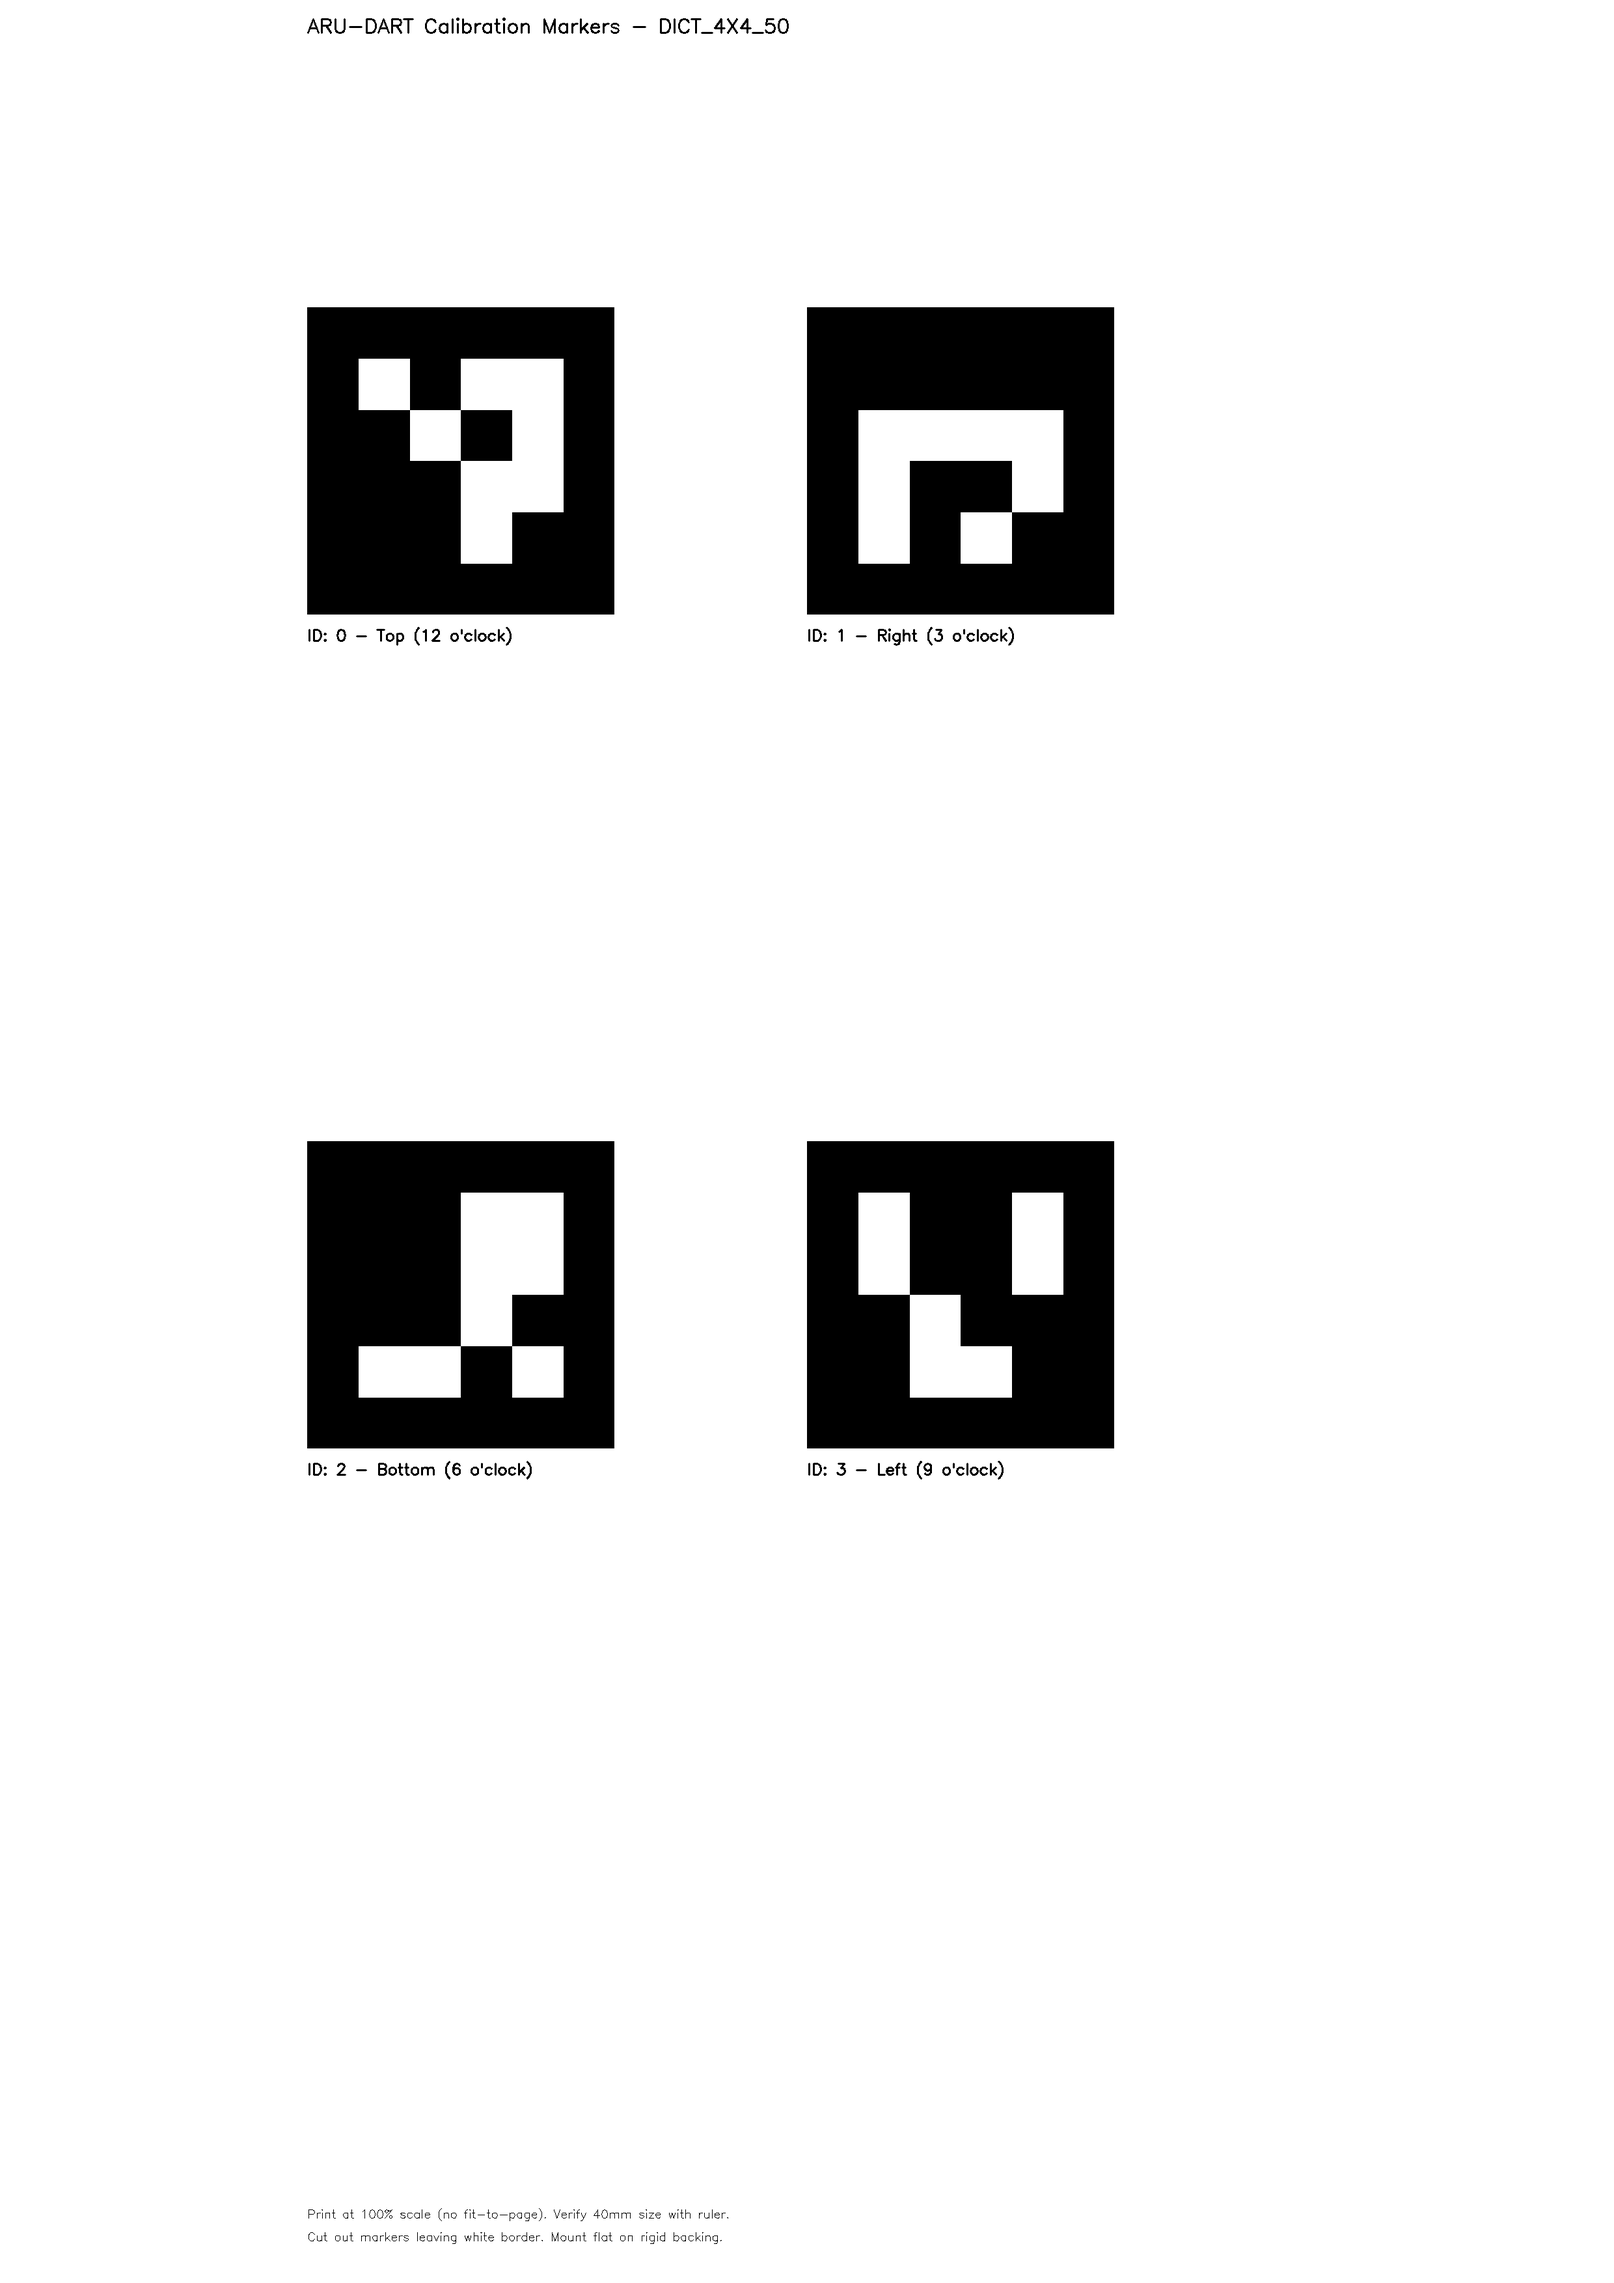
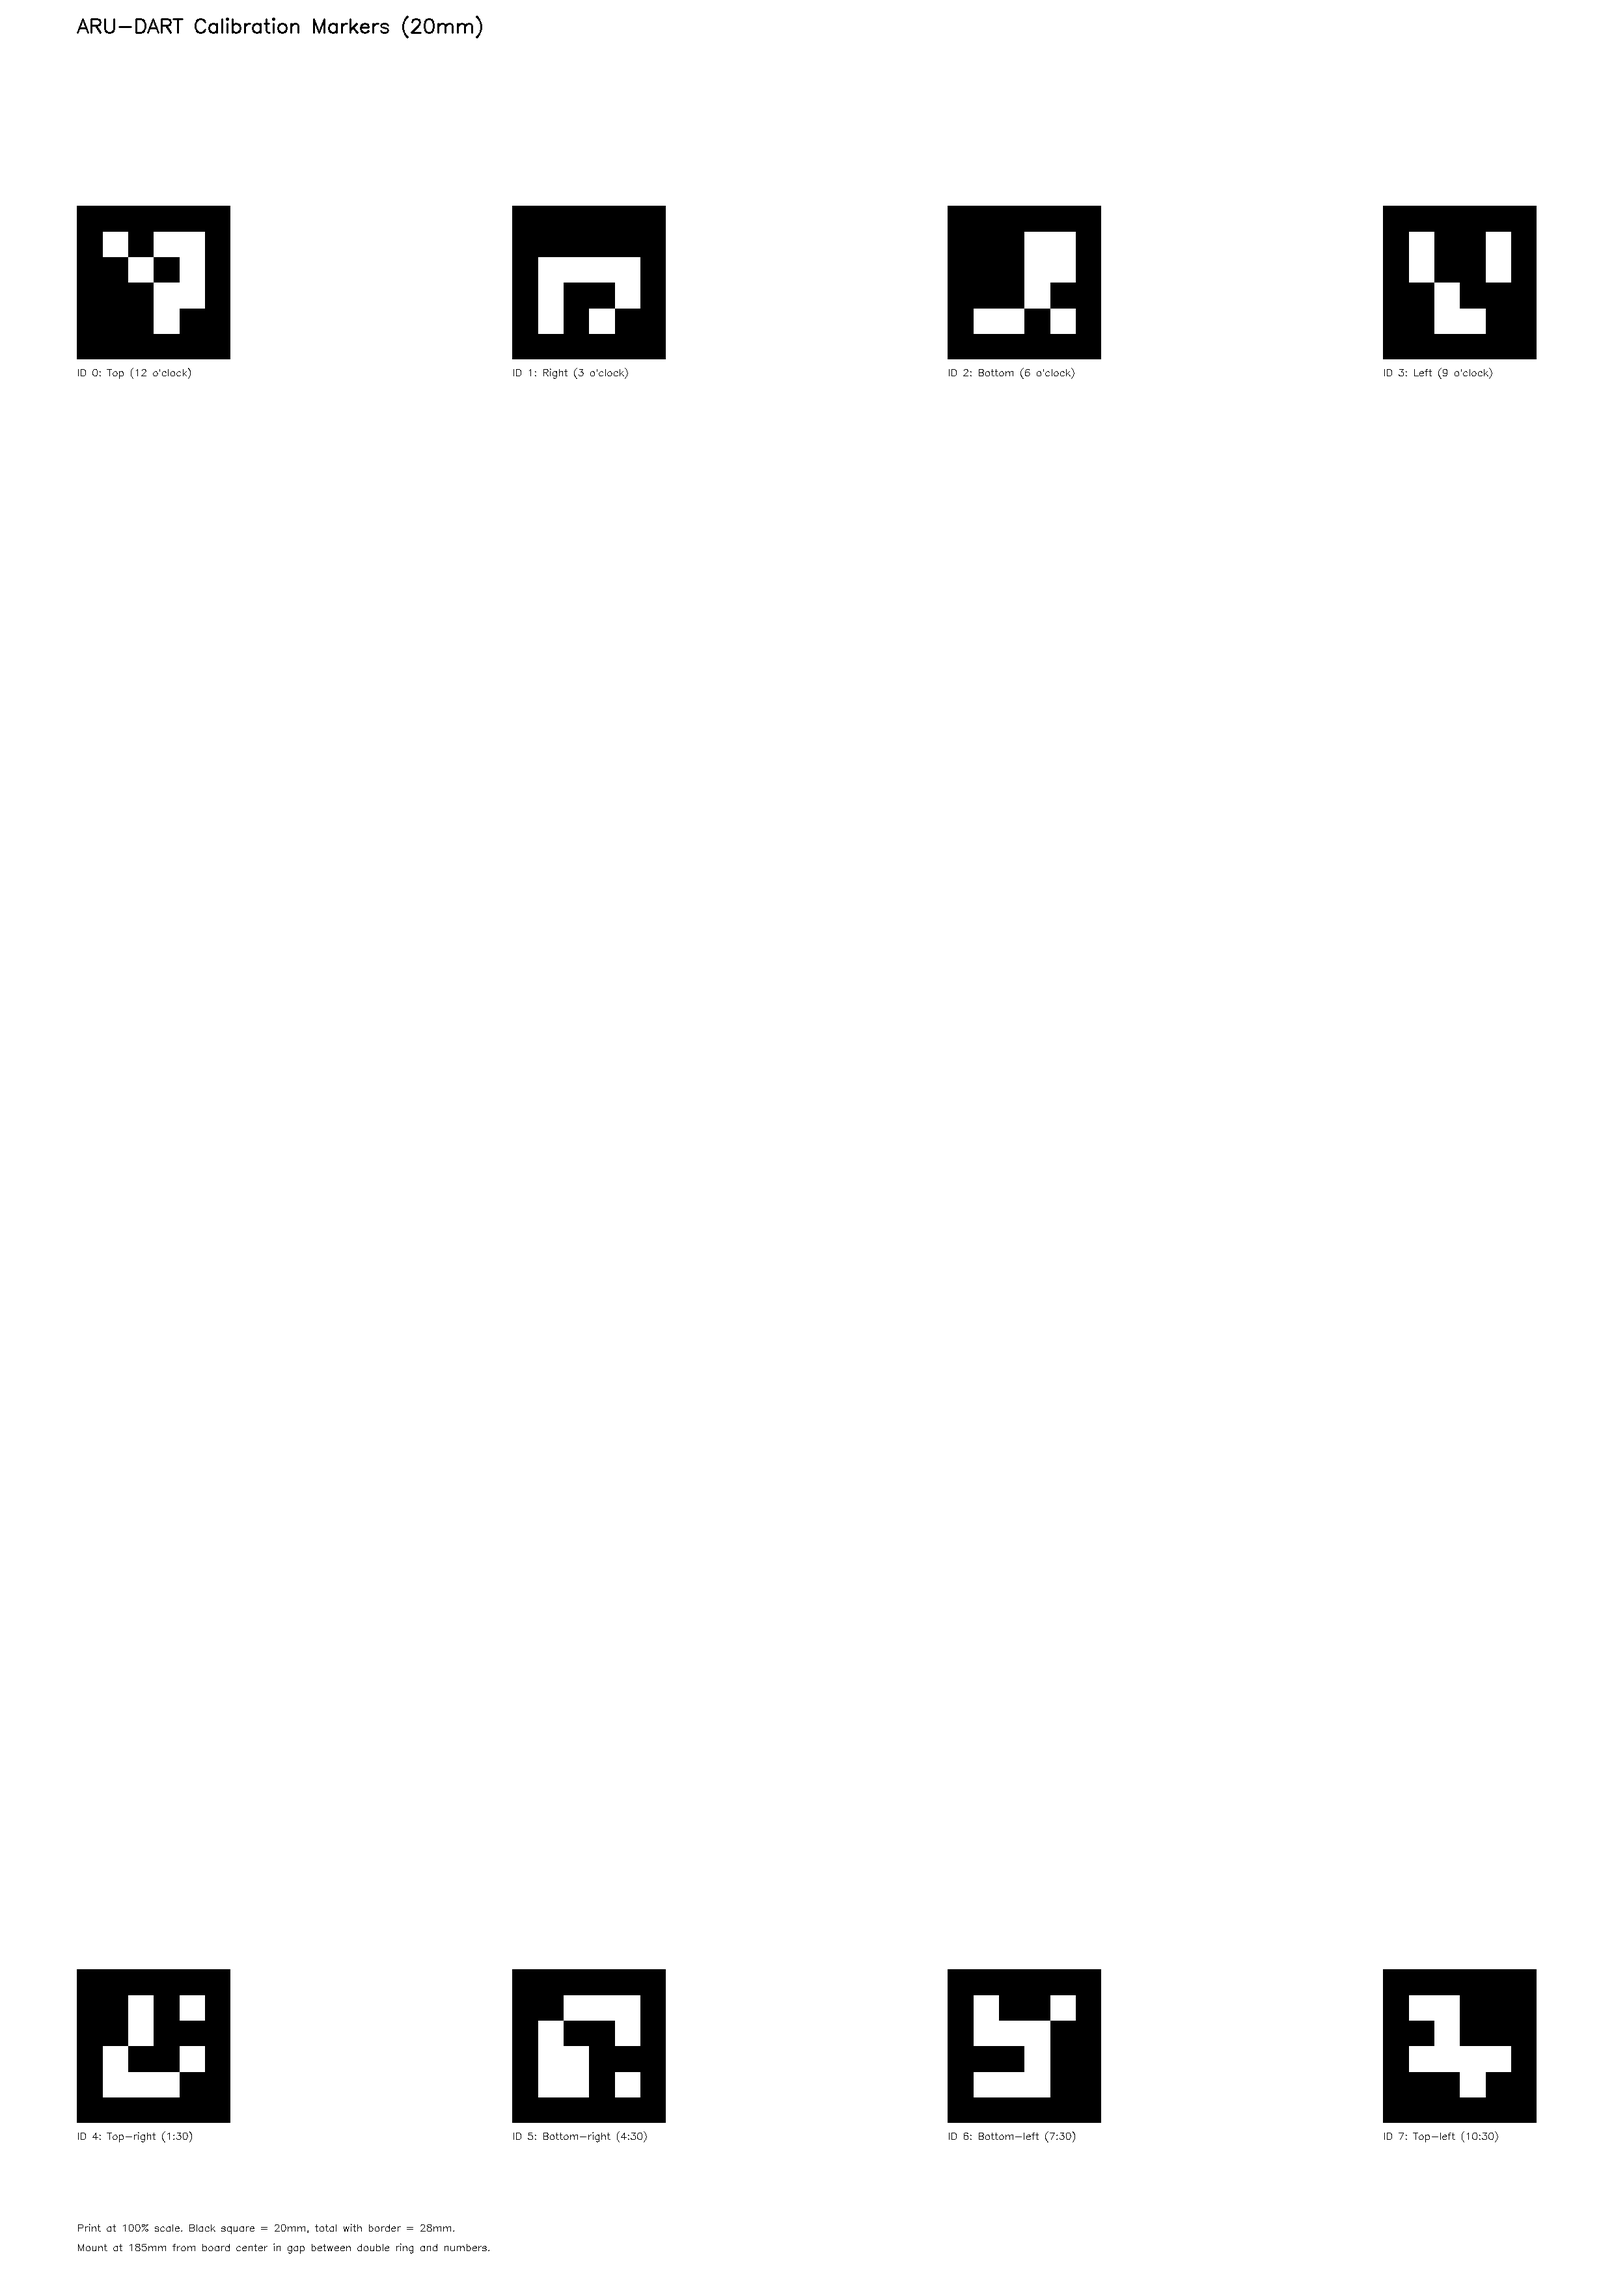
generate ARUCO markers

diff --git a/calibration/generate_aruco_markers.py b/calibration/generate_aruco_markers.py
@@ -27,7 +27,7 @@ from pathlib import Path
 
 def generate_aruco_markers(
     output_dir: str = "calibration/markers",
-    marker_size_mm: int = 40,
+    marker_size_mm: int = 20,
     dpi: int = 300
 ) -> None:
     """
@@ -55,8 +55,8 @@ def generate_aruco_markers(
     print(f"  Marker size: {marker_size_mm}mm ({marker_size_px}px at {dpi} DPI)")
     print()
     
-    # Generate markers 0-5 (we'll use 4, but generate extras for redundancy)
-    for marker_id in range(6):
+    # Generate markers 0-7 (8 markers at 45° intervals)
+    for marker_id in range(8):
         # Generate marker image
         marker_img = cv2.aruco.generateImageMarker(aruco_dict, marker_id, marker_size_px)
         
@@ -77,7 +77,7 @@ def generate_aruco_markers(
     print()
     
     # Generate combined sheet with all 4 markers
-    generate_marker_sheet(output_path, aruco_dict, marker_size_px, dpi)
+    generate_marker_sheet(output_path, aruco_dict, marker_size_px, dpi, marker_size_mm)
     
     # Print summary and instructions
     print_instructions(output_dir, marker_size_mm, marker_size_px, dpi)
@@ -87,86 +87,89 @@ def generate_marker_sheet(
     output_path: Path,
     aruco_dict,
     marker_size_px: int,
-    dpi: int
+    dpi: int,
+    marker_size_mm: int
 ) -> None:
     """
-    Generate a single sheet with all 4 markers for easy printing.
+    Generate a single sheet with all 8 markers.
     
     Args:
         output_path: Directory to save the sheet
         aruco_dict: ARUCO dictionary object
         marker_size_px: Marker size in pixels
         dpi: Print resolution
+        marker_size_mm: Marker size in mm for label
     """
     # Create A4 sheet at specified DPI
-    # A4 = 210mm x 297mm
-    # At 300 DPI: 2480 x 3508 pixels
-    sheet_width = int((210 / 25.4) * dpi)   # 2480 at 300 DPI
-    sheet_height = int((297 / 25.4) * dpi)  # 3508 at 300 DPI
+    sheet_width = int((210 / 25.4) * dpi)
+    sheet_height = int((297 / 25.4) * dpi)
     sheet = np.ones((sheet_height, sheet_width), dtype=np.uint8) * 255
     
-    # Calculate spacing for 2x2 grid with good margins
-    margin = marker_size_px
-    spacing_x = (sheet_width - 2 * marker_size_px - 2 * margin) // 2
-    spacing_y = (sheet_height - 2 * marker_size_px - 2 * margin) // 2
-    
-    # Arrange 4 markers in 2x2 grid
-    positions = [
-        (margin, margin),                                    # Top-left: Marker 0
-        (margin + marker_size_px + spacing_x, margin),       # Top-right: Marker 1
-        (margin, margin + marker_size_px + spacing_y),       # Bottom-left: Marker 2
-        (margin + marker_size_px + spacing_x, margin + marker_size_px + spacing_y),  # Bottom-right: Marker 3
-    ]
-    
-    # Marker placement descriptions for labeling
+    # All 8 markers with positions (clockwise from top)
     placements = [
-        "Top (12 o'clock)",
-        "Right (3 o'clock)",
-        "Bottom (6 o'clock)",
-        "Left (9 o'clock)"
+        "ID 0: Top (12 o'clock)",
+        "ID 1: Right (3 o'clock)",
+        "ID 2: Bottom (6 o'clock)",
+        "ID 3: Left (9 o'clock)",
+        "ID 4: Top-right (1:30)",
+        "ID 5: Bottom-right (4:30)",
+        "ID 6: Bottom-left (7:30)",
+        "ID 7: Top-left (10:30)"
     ]
     
-    for i, (x, y) in enumerate(positions):
-        # Generate marker
-        marker_img = cv2.aruco.generateImageMarker(aruco_dict, i, marker_size_px)
+    # Calculate spacing for 4x2 grid
+    margin_x = marker_size_px // 2
+    margin_y = marker_size_px
+    cols = 4
+    rows = 2
+    spacing_x = (sheet_width - cols * marker_size_px - 2 * margin_x) // (cols - 1)
+    spacing_y = (sheet_height - rows * marker_size_px - 2 * margin_y - 150) // (rows - 1)
+    
+    for marker_id in range(8):
+        col = marker_id % cols
+        row = marker_id // cols
+        x = margin_x + col * (marker_size_px + spacing_x)
+        y = margin_y + 80 + row * (marker_size_px + spacing_y + 60)
         
-        # Place marker on sheet
+        marker_img = cv2.aruco.generateImageMarker(aruco_dict, marker_id, marker_size_px)
         sheet[y:y + marker_size_px, x:x + marker_size_px] = marker_img
         
-        # Add marker ID label below marker
-        label = f"ID: {i} - {placements[i]}"
-        font_scale = 0.8
-        thickness = 2
+        # Add label below marker
+        label = placements[marker_id]
+        font_scale = 0.5
+        thickness = 1
         cv2.putText(
             sheet, label,
-            (x, y + marker_size_px + 40),
+            (x, y + marker_size_px + 25),
             cv2.FONT_HERSHEY_SIMPLEX,
             font_scale, 0, thickness
         )
     
     # Add title at top
-    title = "ARU-DART Calibration Markers - DICT_4X4_50"
+    title = f"ARU-DART Calibration Markers ({marker_size_mm}mm)"
     cv2.putText(
         sheet, title,
-        (margin, 50),
+        (margin_x, 50),
         cv2.FONT_HERSHEY_SIMPLEX,
         1.0, 0, 2
     )
     
     # Add instructions at bottom
+    border_mm = marker_size_mm // 5
+    total_mm = marker_size_mm + 2 * border_mm
     instructions = [
-        "Print at 100% scale (no fit-to-page). Verify 40mm size with ruler.",
-        "Cut out markers leaving white border. Mount flat on rigid backing."
+        f"Print at 100% scale. Black square = {marker_size_mm}mm, total with border = {total_mm}mm.",
+        "Mount at 185mm from board center in gap between double ring and numbers."
     ]
-    y_pos = sheet_height - 100
+    y_pos = sheet_height - 80
     for instruction in instructions:
         cv2.putText(
             sheet, instruction,
-            (margin, y_pos),
+            (margin_x, y_pos),
             cv2.FONT_HERSHEY_SIMPLEX,
-            0.6, 0, 1
+            0.5, 0, 1
         )
-        y_pos += 35
+        y_pos += 30
     
     # Save sheet
     output_file = output_path / "aruco_markers_sheet.png"
@@ -182,12 +185,16 @@ def print_instructions(
 ) -> None:
     """Print detailed instructions for marker usage."""
     
+    border_mm = marker_size_mm // 5
+    total_mm = marker_size_mm + 2 * border_mm
+    
     print("=" * 70)
     print("ARUCO MARKER GENERATION COMPLETE")
     print("=" * 70)
     print()
     print(f"Output directory: {output_dir}")
-    print(f"Marker size: {marker_size_mm}mm ({marker_size_px}px at {dpi} DPI)")
+    print(f"Marker size: {marker_size_mm}mm black square + {border_mm}mm border = {total_mm}mm total")
+    print(f"Resolution: {marker_size_px}px at {dpi} DPI")
     print()
     print("-" * 70)
     print("PRINTING INSTRUCTIONS")
@@ -200,55 +207,54 @@ def print_instructions(
     print("   - Color: Black & White")
     print()
     print("2. VERIFICATION:")
-    print(f"   - Measure printed marker with ruler")
-    print(f"   - Should be exactly {marker_size_mm}mm × {marker_size_mm}mm")
+    print(f"   - Measure printed marker black square with ruler")
+    print(f"   - Black square should be exactly {marker_size_mm}mm × {marker_size_mm}mm")
+    print(f"   - Total with white border should be {total_mm}mm × {total_mm}mm")
     print("   - If size is wrong, check print settings and reprint")
     print()
     print("3. PREPARATION:")
     print("   - Cut out each marker leaving white border intact")
-    print("   - Mount on rigid backing (cardboard or foam board)")
-    print("   - Ensure markers are perfectly flat (no wrinkles or bends)")
+    print("   - Mount on board in gap between double ring and number ring")
+    print("   - Ensure markers are flat against board surface")
     print()
     print("-" * 70)
     print("MOUNTING INSTRUCTIONS")
     print("-" * 70)
     print()
-    print("Marker positions (200mm from board center):")
-    print("   - Marker 0: 12 o'clock (top)")
-    print("   - Marker 1:  3 o'clock (right)")
-    print("   - Marker 2:  6 o'clock (bottom)")
-    print("   - Marker 3:  9 o'clock (left)")
-    print()
-    print("Mounting process:")
-    print("   1. Measure 200mm from board center in each direction")
-    print("   2. Mark positions on wall/mounting surface")
-    print("   3. Attach markers with tape or adhesive")
-    print("   4. Ensure markers are:")
-    print("      - Flat against surface (no curling)")
-    print("      - Parallel to board plane")
-    print("      - Clearly visible from all 3 camera positions")
-    print("      - Not occluded by LED ring or other objects")
+    print("8 markers at 185mm from board center (clockwise from top):")
+    print("   - Marker 0: Top (12 o'clock)")
+    print("   - Marker 1: Right (3 o'clock)")
+    print("   - Marker 2: Bottom (6 o'clock)")
+    print("   - Marker 3: Left (9 o'clock)")
+    print("   - Marker 4: Top-right (1:30)")
+    print("   - Marker 5: Bottom-right (4:30)")
+    print("   - Marker 6: Bottom-left (7:30)")
+    print("   - Marker 7: Top-left (10:30)")
     print()
     print("-" * 70)
     print("CONFIGURATION")
     print("-" * 70)
     print()
-    print("After mounting, verify positions in config.toml:")
+    print("After mounting, update config.toml with actual measured positions:")
     print()
     print("  [calibration.aruco_markers]")
-    print("  marker_0 = [0.0, 200.0]      # Top (12 o'clock)")
-    print("  marker_1 = [200.0, 0.0]      # Right (3 o'clock)")
-    print("  marker_2 = [0.0, -200.0]     # Bottom (6 o'clock)")
-    print("  marker_3 = [-200.0, 0.0]     # Left (9 o'clock)")
+    print("  marker_0 = [0.0, 185.0]        # Top (12 o'clock)")
+    print("  marker_1 = [185.0, 0.0]        # Right (3 o'clock)")
+    print("  marker_2 = [0.0, -185.0]       # Bottom (6 o'clock)")
+    print("  marker_3 = [-185.0, 0.0]       # Left (9 o'clock)")
+    print("  marker_4 = [130.8, 130.8]      # Top-right (1:30)")
+    print("  marker_5 = [130.8, -130.8]     # Bottom-right (4:30)")
+    print("  marker_6 = [-130.8, -130.8]    # Bottom-left (7:30)")
+    print("  marker_7 = [-130.8, 130.8]     # Top-left (10:30)")
     print()
     print("-" * 70)
     print("VERIFICATION CHECKLIST")
     print("-" * 70)
     print()
-    print("Before running calibration, verify:")
-    print("  [ ] Markers printed at correct size (40mm)")
-    print("  [ ] Markers mounted flat and parallel to board")
-    print("  [ ] Markers visible from all 3 camera positions")
+    print(f"Before running calibration, verify:")
+    print(f"  [ ] Markers printed at correct size ({marker_size_mm}mm black square)")
+    print("  [ ] Markers placed in gap between double ring and numbers")
+    print("  [ ] At least 4 markers visible from each camera")
     print("  [ ] Marker positions recorded in config.toml")
     print("  [ ] Good lighting (markers clearly visible, no glare)")
     print()
@@ -302,8 +308,8 @@ if __name__ == "__main__":
     parser.add_argument(
         "--size", "-s",
         type=int,
-        default=40,
-        help="Marker size in millimeters (default: 40)"
+        default=20,
+        help="Marker size in millimeters (default: 20)"
     )
     parser.add_argument(
         "--dpi", "-d",
